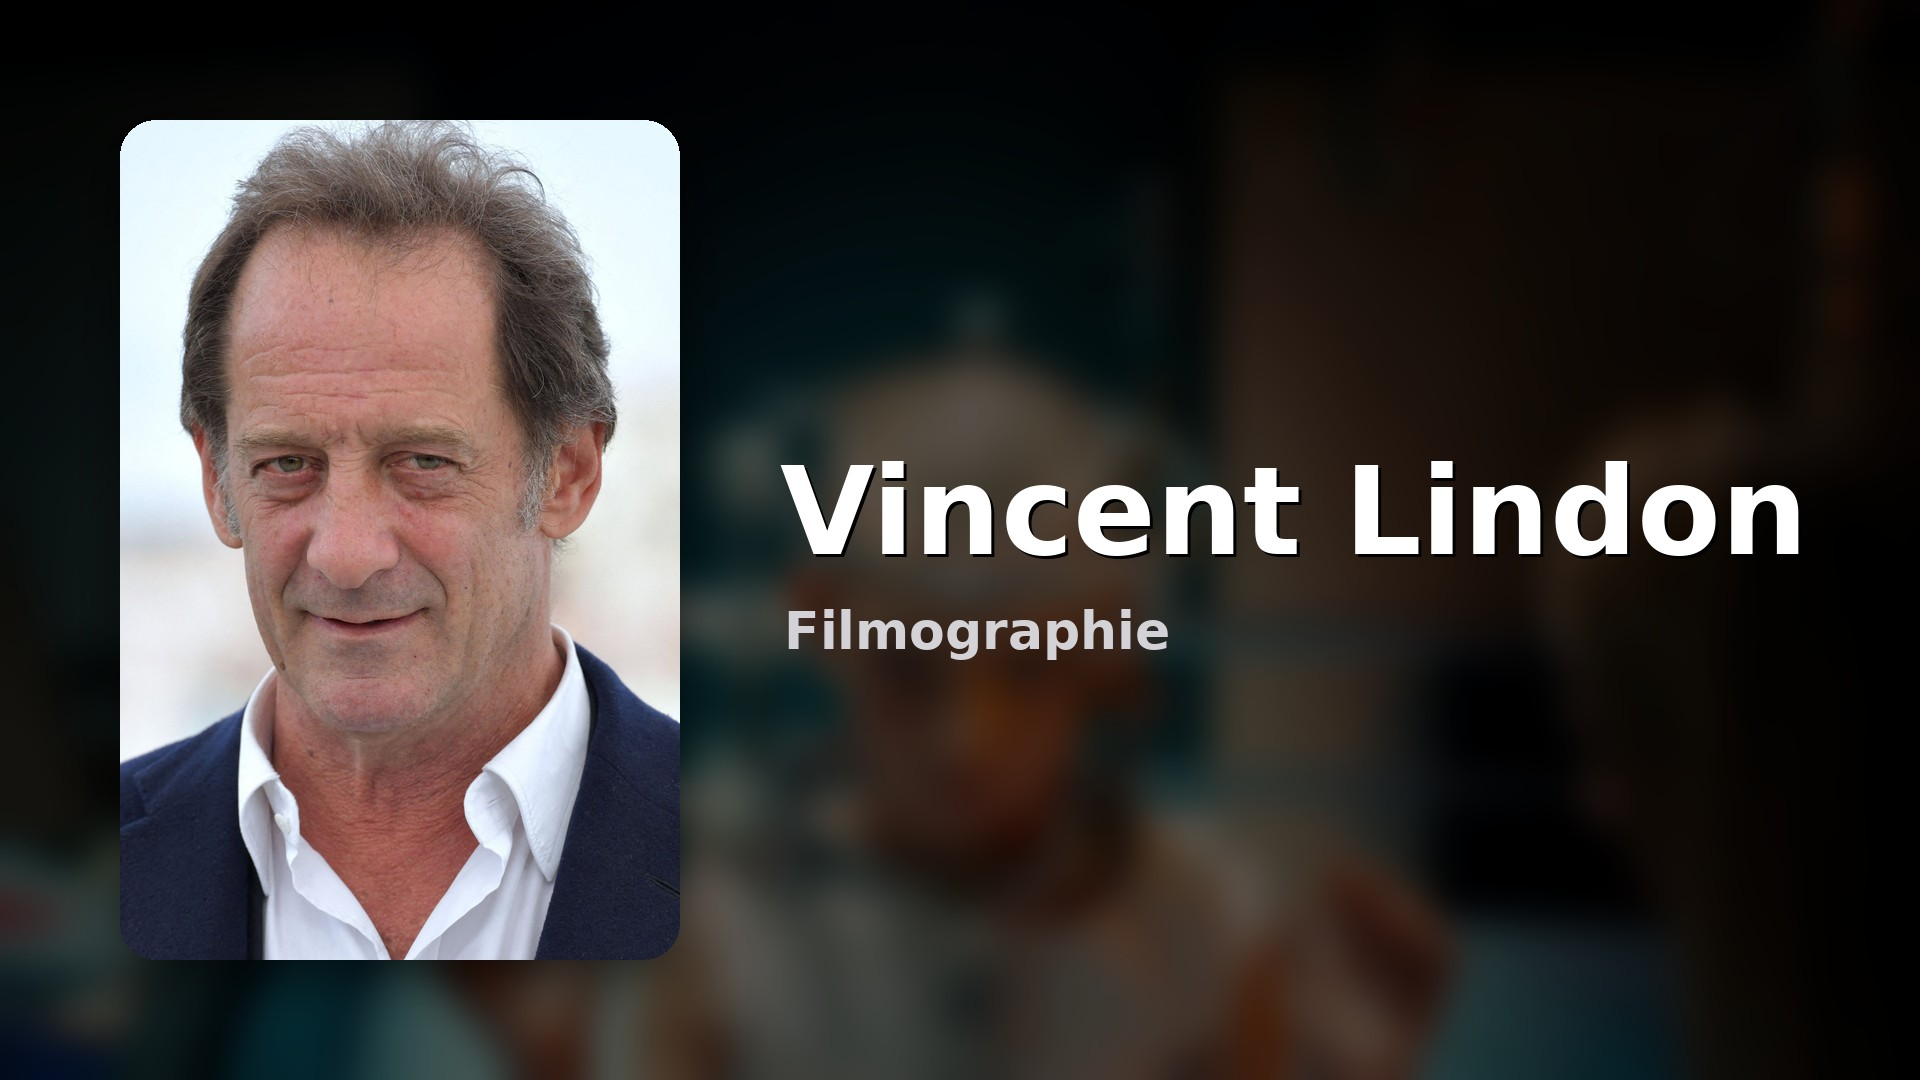
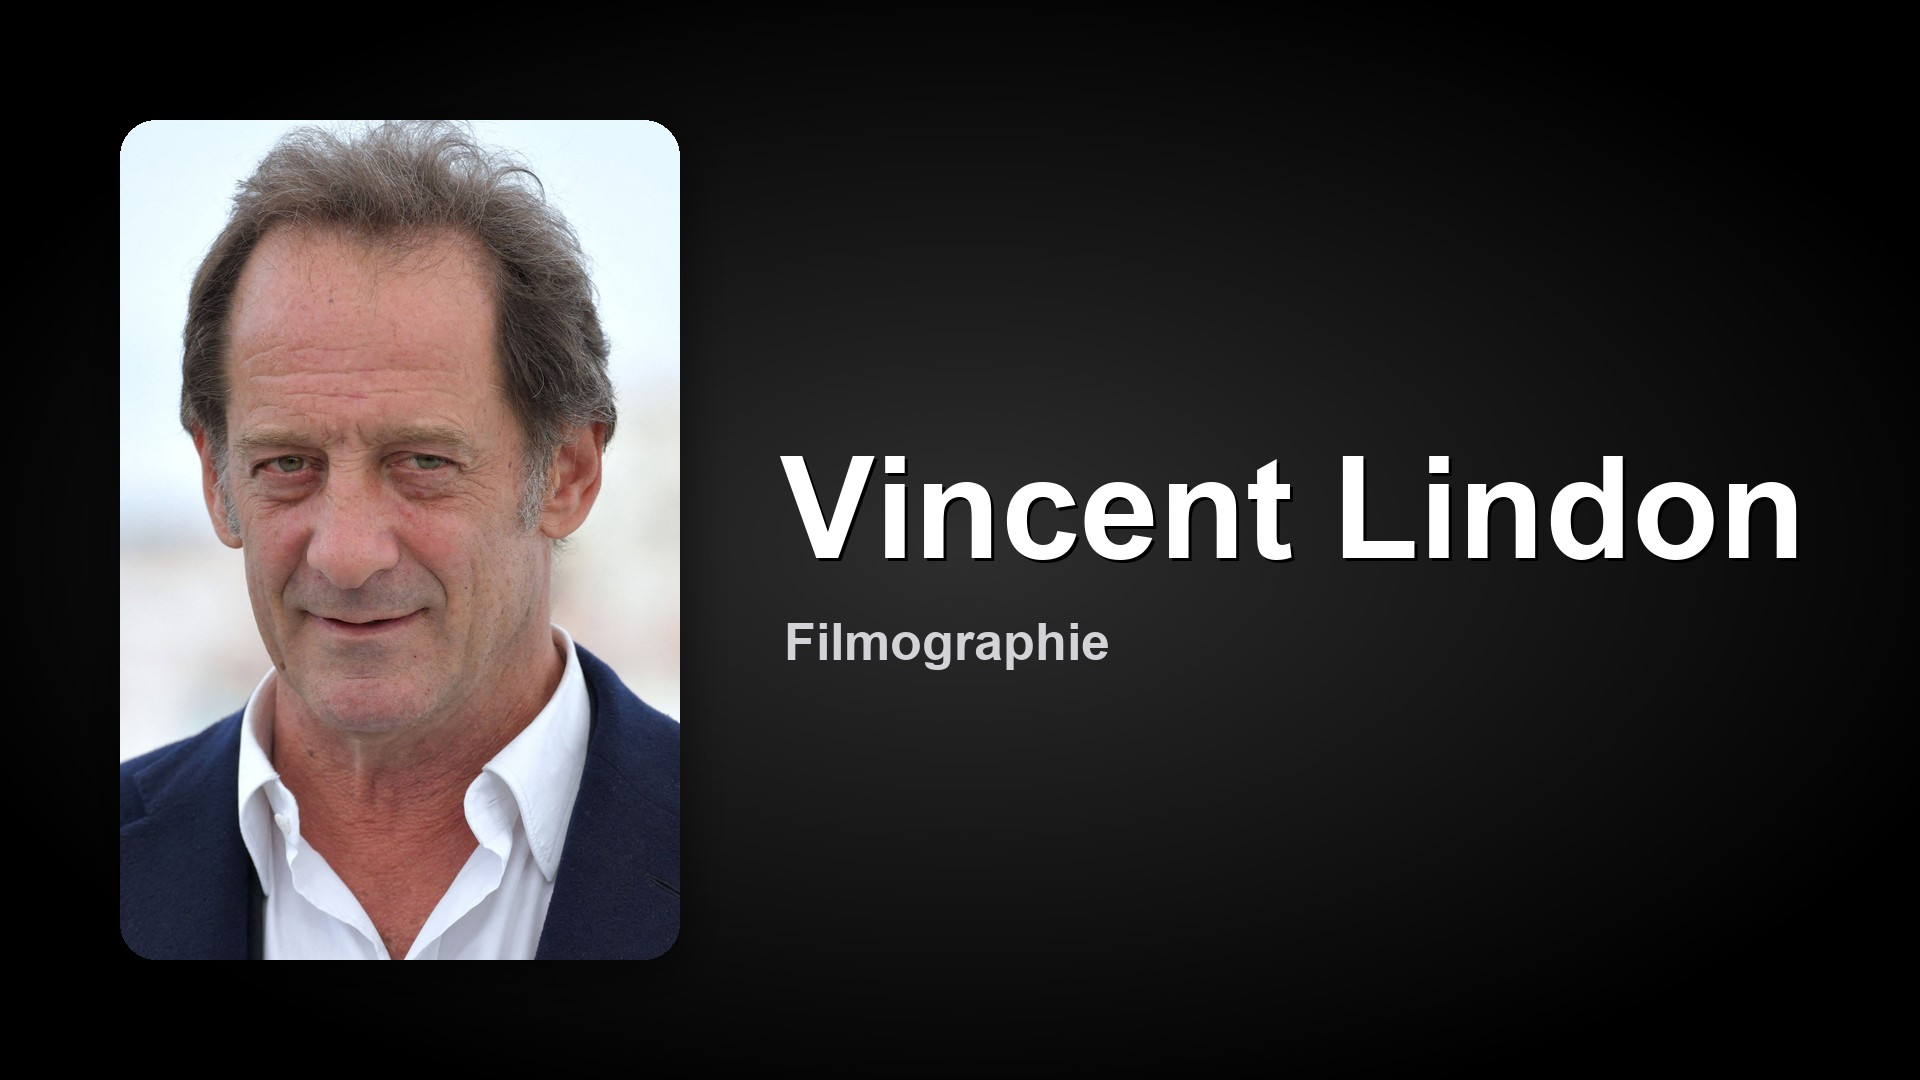
Bannieres paysage : fond noir vignette

diff --git a/sync.py b/sync.py
@@ -418,16 +418,10 @@ def _wrap(draw, text: str, font, max_w: int) -> list[str]:
 def make_landscape(name: str, photo, backdrop):
     from PIL import Image, ImageDraw, ImageFilter
     W, H = 1920, 1080
-    if backdrop is not None:
-        bg = _cover(backdrop.convert("RGB"), W, H).filter(ImageFilter.GaussianBlur(18))
-        bg = Image.blend(bg, Image.new("RGB", (W, H), (0, 0, 0)), 0.55)
-    else:
-        bg = Image.new("RGB", (W, H))
-        d = ImageDraw.Draw(bg)
-        for y in range(H):
-            v = int(15 + 35 * y / H)
-            d.line([(0, y), (W, y)], fill=(v, v, v + 12))
-    canvas = bg.convert("RGBA")
+    # Fond noir vignette (le backdrop n'est plus utilise) : centre gris tres sombre, bords noirs.
+    fade = Image.radial_gradient("L").resize((W, H), Image.BICUBIC)  # 0 au centre, 255 aux bords
+    bg = Image.eval(fade, lambda v: max(0, 46 - v * 46 // 200))
+    canvas = Image.merge("RGB", (bg, bg, bg)).convert("RGBA")
 
     ph_w, ph_h = 560, 840
     if photo is not None:
